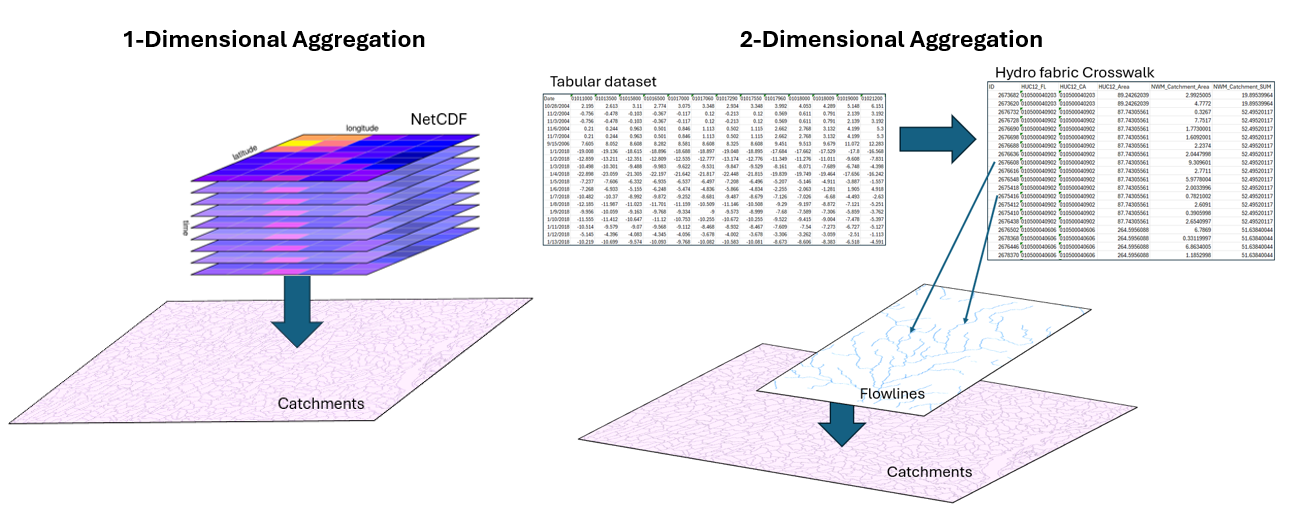
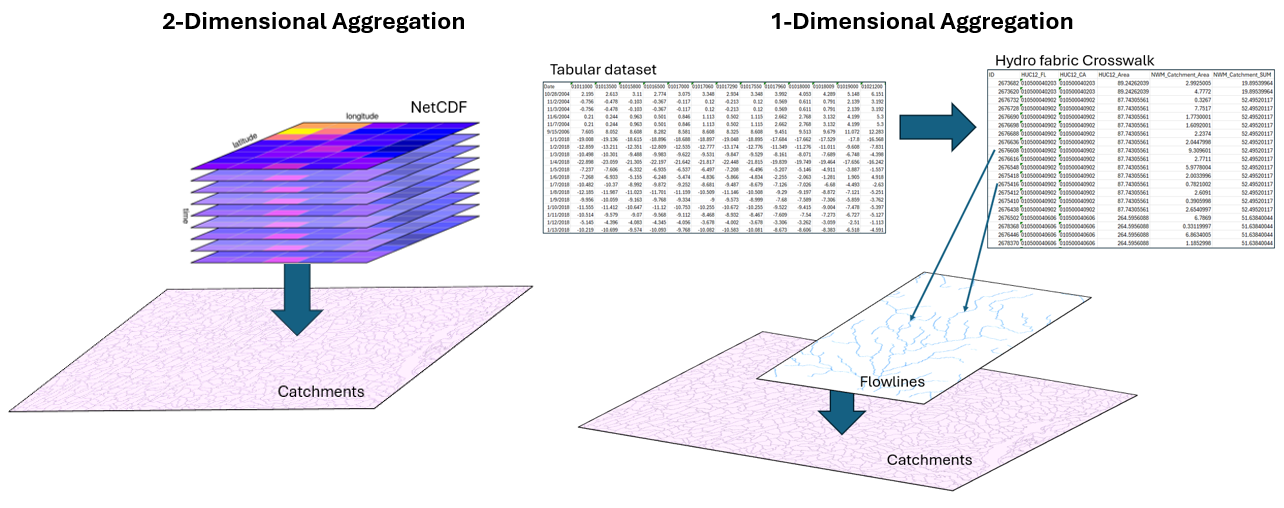
fixing 1D2D figure

diff --git a/Training/README.md b/Training/README.md
@@ -105,7 +105,7 @@ Want to learn more about the WRF-Hydro Modeling System? [These tutorial recordin
 <a id="HUC12s"></a>
 <h3>WBD HUC12s Background</h3>
 
-The twelve-digit hydrologic unit codes (HUCs) are derived from the Watershed Boundary Dataset (WBD) and are part of a nested spatial unit system. Each drainage area is considered a Hydrologic Unit (HU) and is given a Hydrologic Unit Code (HUC) which serves as the unique identifier for the area. HUC 2s, 4s, 6s, 8s, 10s, & 12s, define the drainage Regions, Subregions, Basins, Subbasins, Watersheds and Subwatersheds, respectively, across the United States. Their boundaries are defined by hydrologic and topographic criteria that delineate an area of land upstream that drain to a specific point on a river. The United States Congress has assigned the USGS, along with other Federal agencies, to assess national water availability every five years under the [SECURE Water Act](https://www.doi.gov/ocl/hearings/111/SECUREWaterAct_031610). The HUC12 spatial unit is of interest because it is the reporting unit to perform this assessment through the [National Integrated Water Availability Assessments](https://pubs.usgs.gov/publication/pp1894A) (NIWAAs). 
+The [twelve-digit hydrologic unit codes (HUCs)](https://www.sciencebase.gov/catalog/item/63cb38b2d34e06fef14f40ad) used in this workflow are derived from the Watershed Boundary Dataset (WBD) and are part of a nested spatial unit system. Each drainage area is considered a Hydrologic Unit (HU) and is given a Hydrologic Unit Code (HUC) which serves as the unique identifier for the area. HUC 2s, 4s, 6s, 8s, 10s, & 12s, define the drainage Regions, Subregions, Basins, Subbasins, Watersheds and Subwatersheds, respectively, across the United States. Their boundaries are defined by hydrologic and topographic criteria that delineate an area of land upstream that drain to a specific point on a river. The United States Congress has assigned the USGS, along with other Federal agencies, to assess national water availability every five years under the [SECURE Water Act](https://www.doi.gov/ocl/hearings/111/SECUREWaterAct_031610). The HUC12 spatial unit is of interest because it is the reporting unit to perform this assessment through the [National Integrated Water Availability Assessments](https://pubs.usgs.gov/publication/pp1894A) (NIWAAs). 
 
 ![Screenshot](images/WBD_HUC12.png)
 
@@ -114,7 +114,7 @@ The 10-year WRF-Hydro Modeling Application forced with CONUS404-BA is comprised 
 
 | **Source** | **File** | **File Structure** | **Time Step** | **Total Number of Files** | **Size** |
 | ------ | ------ | ------ | ------ | ------ | ------ |
-| WRF-Hydro | LDASOUT | Calendar Year | 3-hourly | ~35,064 | ~7,000 GB |
+| WRF-Hydro | LDASOUT | Calendar Year | 3-hour | ~35,064 | ~7,000 GB |
 | CONUS404-BA | LDASIN | Water Year | hourly | ~105,192 | ~21,000 GB |
 | WRF-Hydro | GWOUT | Calendar Year | hourly | ~105,192 | ~21,000 GB |
 | WRF-Hydro | CHRTOUT | Calendar Year | hourly | ~105,192 | ~21,000 GB |
@@ -136,11 +136,11 @@ These scripts need the correct environment installed, found in the conda environ
 ![Screenshot](images/1Dand2Daggregation.png)
 
 <a id="Merge"></a>
-<h3>Merge 1D & 2D datasets</h3>
+<h3>Merge 1D & 2D Datasets</h3>
 
 Once the aggregations are complete, the 1D and 2D outputs will need to be merged into 1 netcdf using the [xarray](https://docs.xarray.dev/en/stable/generated/xarray.merge.html) python package. This process also plots the different variables to see what the range of values looks like. This process includes 1 jupyter notebook titled [03_Merge_1D_and_2D_files.ipynb](02_Spatial_Aggregation/03_Merge_1D_and_2D_files.ipynb) that can be can be found within the [02_Spatial_Aggregation](02_Spatial_Aggregation/) folder. This script uses the same environment requirements that are installed in the spatial aggregation portion of this workflow.   
 
 <a id="Format"></a>
-<h3>Format final outputs</h3>
+<h3>Format</h3>
 
 This process ensures the merged netCDF file is formatted by clarifying variable names, adding character HUCID's, and modifying data types. A 'yrmo' variable is added as a place for year/month information to be stored and to provide an efficient way for R users to access the final datasets. This process includes 1 jupyter notebook titled [04_Finalize.ipynb](02_Spatial_Aggregation/04_Finalize.ipynb) and can be found int the [02_Spatial_Aggregation](02_Spatial_Aggregation/) folder. This script uses the same environment requirements that are installed in for the spatial aggregation portion of this workflow.
